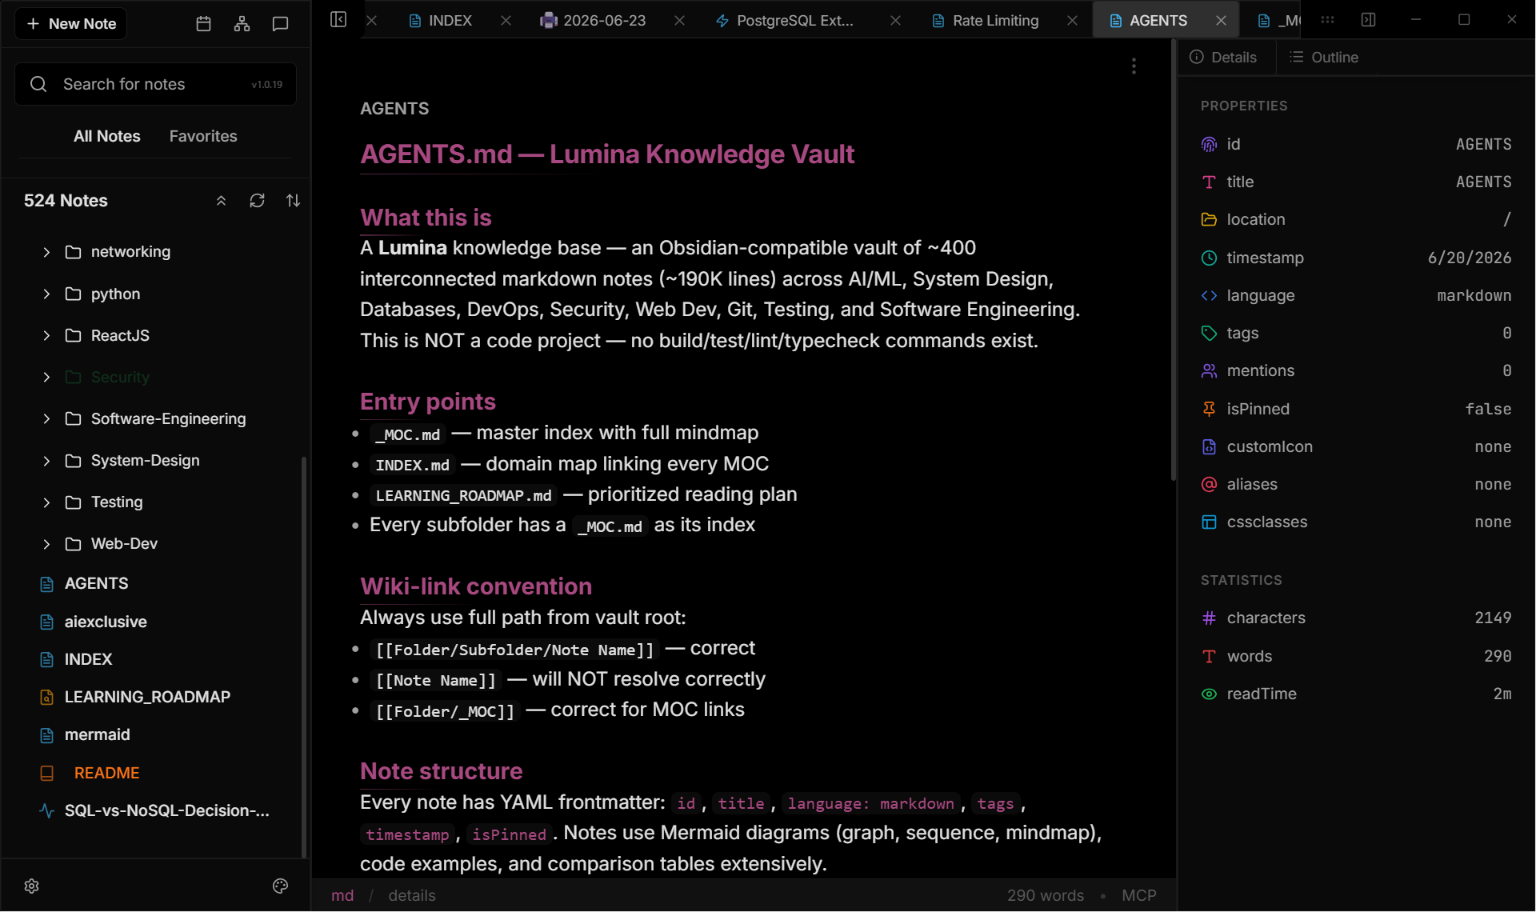
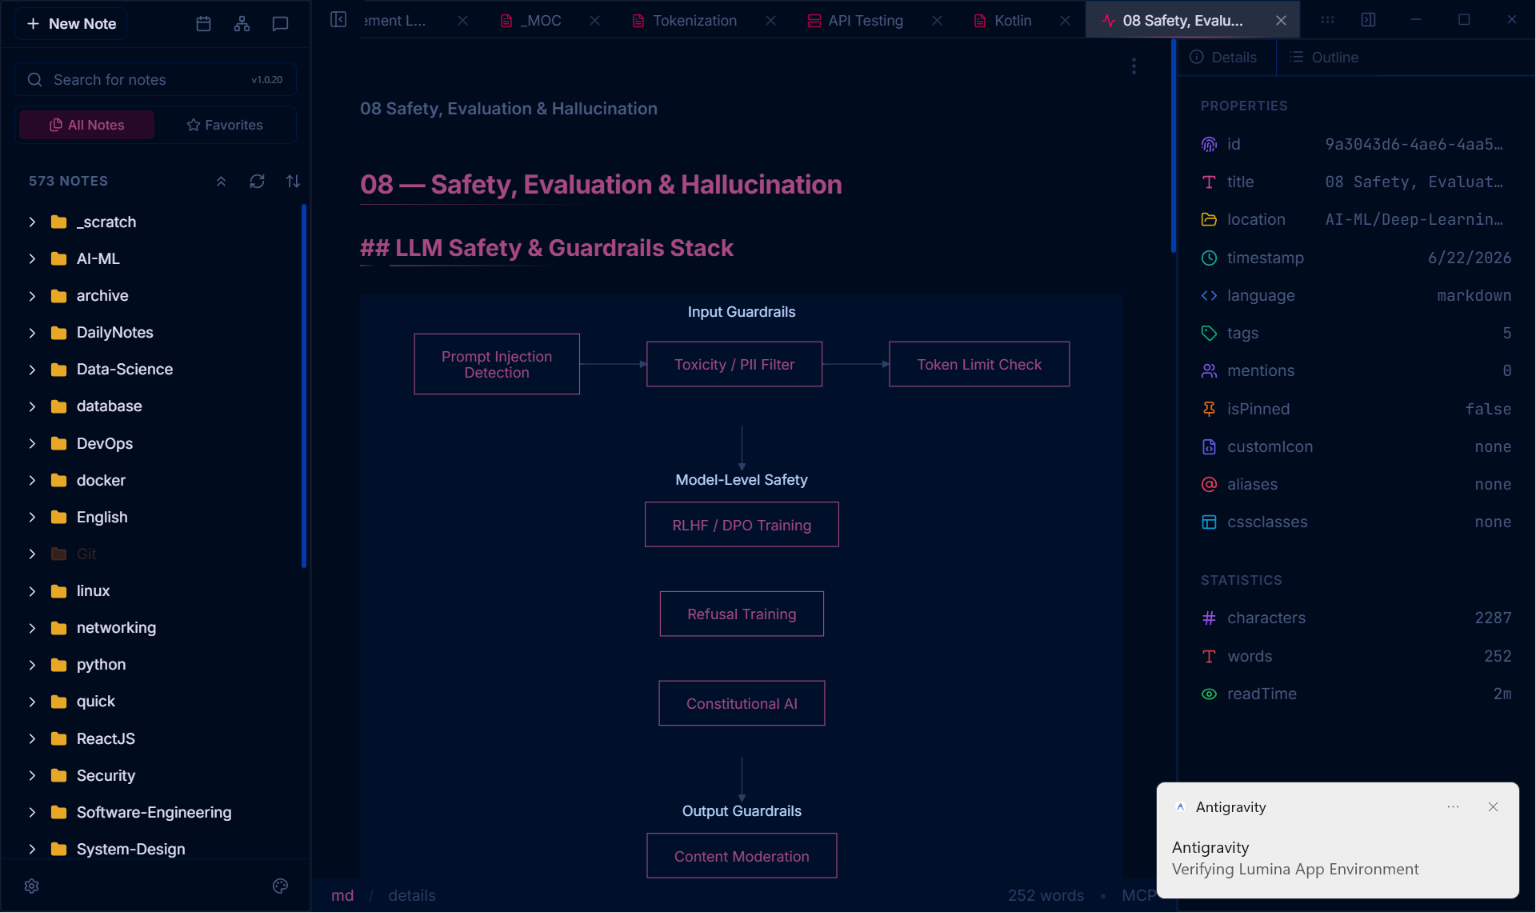
v21 has published.

diff --git a/src/renderer/src/features/Graph/Graph.jsx b/src/renderer/src/features/Graph/Graph.jsx
@@ -273,6 +273,9 @@ const Graph = React.memo(({ isOpen = true, onClose, onNavigate, embedded = false
     }
   }, [selectedSnippet, isBuildingGraph])
 
+  // Ref for debouncing reheat
+  const reheatTimeoutRef = useRef(null)
+
   // Physics Engine Setup
   useEffect(() => {
     // Unsubscribe listener for Live Physics without React Re-renders
@@ -299,19 +302,30 @@ const Graph = React.memo(({ isOpen = true, onClose, onNavigate, embedded = false
           const linkForce = settings.graphLinkForce ?? 0.05
 
           // Update force parameters instantly
-          fg.d3Force('custom_x').strength(centerForce)
-          fg.d3Force('custom_y').strength(centerForce)
+          fg.d3Force('custom_x').strength(0)
+          fg.d3Force('custom_y').strength(0)
+          if (fg.d3Force('custom_radial')) {
+            fg.d3Force('custom_radial')
+              .radius((d) => (d.val <= 1 ? 800 : 0))
+              .strength((d) => (d.val <= 1 ? 0.2 : centerForce))
+          }
           fg.d3Force('custom_charge').strength(-500 * repelForce) // Reduced from -3000 so orphans don't shoot to infinity
           
           fg.d3Force('custom_collide')
             .radius((d) => {
               const baseR = d.val ? Math.max(2, Math.sqrt(d.val) * 2.5) : 2
-              return baseR * sizeMult + 40 // Physical gap
+              return baseR * sizeMult + 15 // Physical gap
             })
+            .strength(0.75)
+            .iterations(1)
 
           if (fg.d3Force('link')) fg.d3Force('link').strength(linkForce)
 
-          fg.d3ReheatSimulation()
+          // Debounce the reheat to prevent violent shaking when dragging sliders
+          if (reheatTimeoutRef.current) clearTimeout(reheatTimeoutRef.current)
+          reheatTimeoutRef.current = setTimeout(() => {
+            if (graphRef.current) graphRef.current.d3ReheatSimulation()
+          }, 300)
         }
       }
     )
@@ -329,6 +343,7 @@ const Graph = React.memo(({ isOpen = true, onClose, onNavigate, embedded = false
     // Initialize core forces only if they don't exist
     if (!fg.d3Force('custom_x')) fg.d3Force('custom_x', forceX(0))
     if (!fg.d3Force('custom_y')) fg.d3Force('custom_y', forceY(0))
+    if (!fg.d3Force('custom_radial')) fg.d3Force('custom_radial', forceRadial(800))
     if (!fg.d3Force('custom_charge')) fg.d3Force('custom_charge', forceManyBody())
     if (!fg.d3Force('custom_collide')) fg.d3Force('custom_collide', forceCollide())
 
@@ -339,16 +354,20 @@ const Graph = React.memo(({ isOpen = true, onClose, onNavigate, embedded = false
     fg.d3Force('radial', null)
 
     // Apply initial forces
-    fg.d3Force('custom_x').strength(centerForce)
-    fg.d3Force('custom_y').strength(centerForce)
+    fg.d3Force('custom_x').strength(0)
+    fg.d3Force('custom_y').strength(0)
+    fg.d3Force('custom_radial')
+      .radius((d) => (d.val <= 1 ? 800 : 0))
+      .strength((d) => (d.val <= 1 ? 0.2 : centerForce))
     fg.d3Force('custom_charge').strength(-500 * repelForce)
     
     fg.d3Force('custom_collide')
       .radius((d) => {
         const baseR = d.val ? Math.max(2, Math.sqrt(d.val) * 2.5) : 2
-        return baseR * sizeMult + 40
+        return baseR * sizeMult + 15
       })
-      .strength(0.1)
+      .strength(0.75)
+      .iterations(1)
 
     // Extremely elastic links like a spiderweb
     if (fg.d3Force('link')) fg.d3Force('link').distance(150).strength(linkForce)
@@ -485,9 +504,9 @@ const Graph = React.memo(({ isOpen = true, onClose, onNavigate, embedded = false
       const showTextsSetting = liveSettings.graphShowTexts !== false && liveSettings.graphShowTexts !== 'false'
 
       if (showTextsSetting) {
-        if (isActive || isHovered) shouldShow = true
+        if (isHovered) shouldShow = true
         else if (globalScale > 1.8) shouldShow = true
-        else if (node.val > 5 && globalScale > 1.2) shouldShow = true
+        else if ((isActive || node.val > 5) && globalScale > 1.2) shouldShow = true
       }
 
       if (shouldShow) {

diff --git a/src/renderer/src/core/utils/graphBuilder.js b/src/renderer/src/core/utils/graphBuilder.js
@@ -106,6 +106,9 @@ export const buildGraphData = (snippets) => {
     if (target) target.val += 0.5
   })
 
+  // Sort nodes by mass so larger nodes render on top of smaller ones
+  nodes.sort((a, b) => a.val - b.val)
+
   return { nodes, links }
 }
 